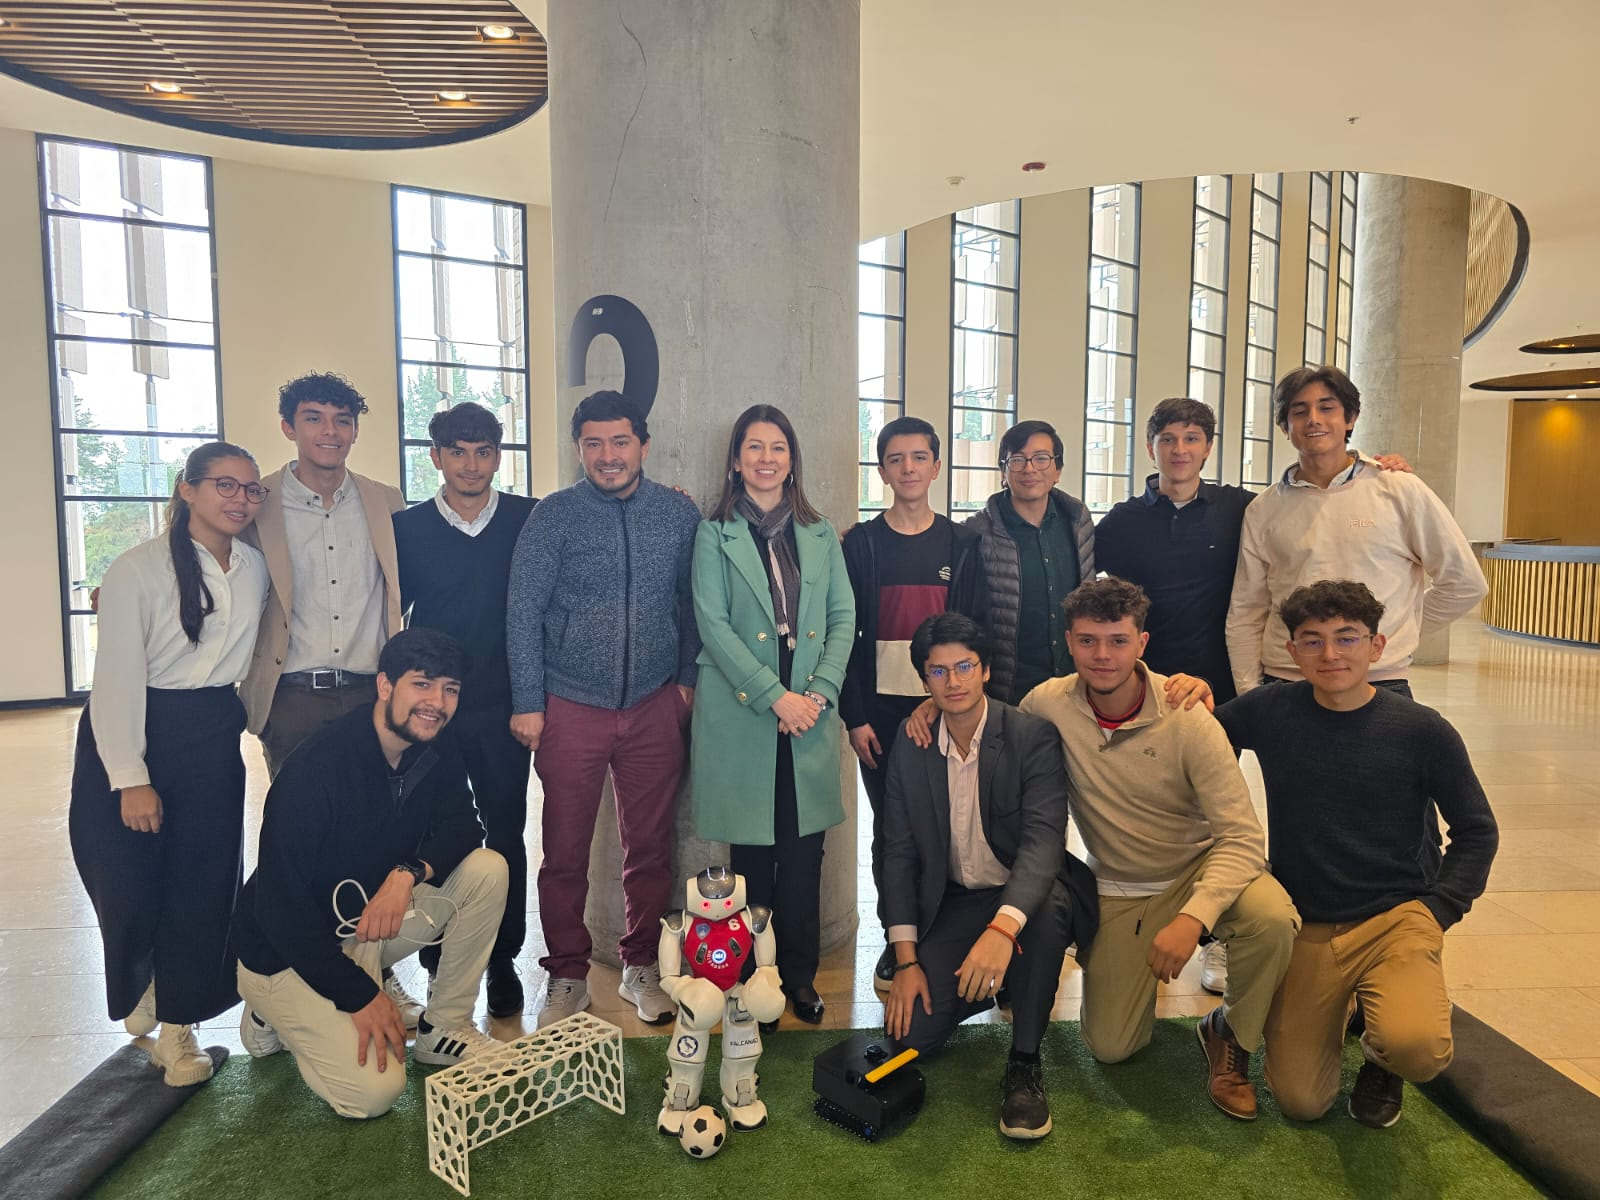
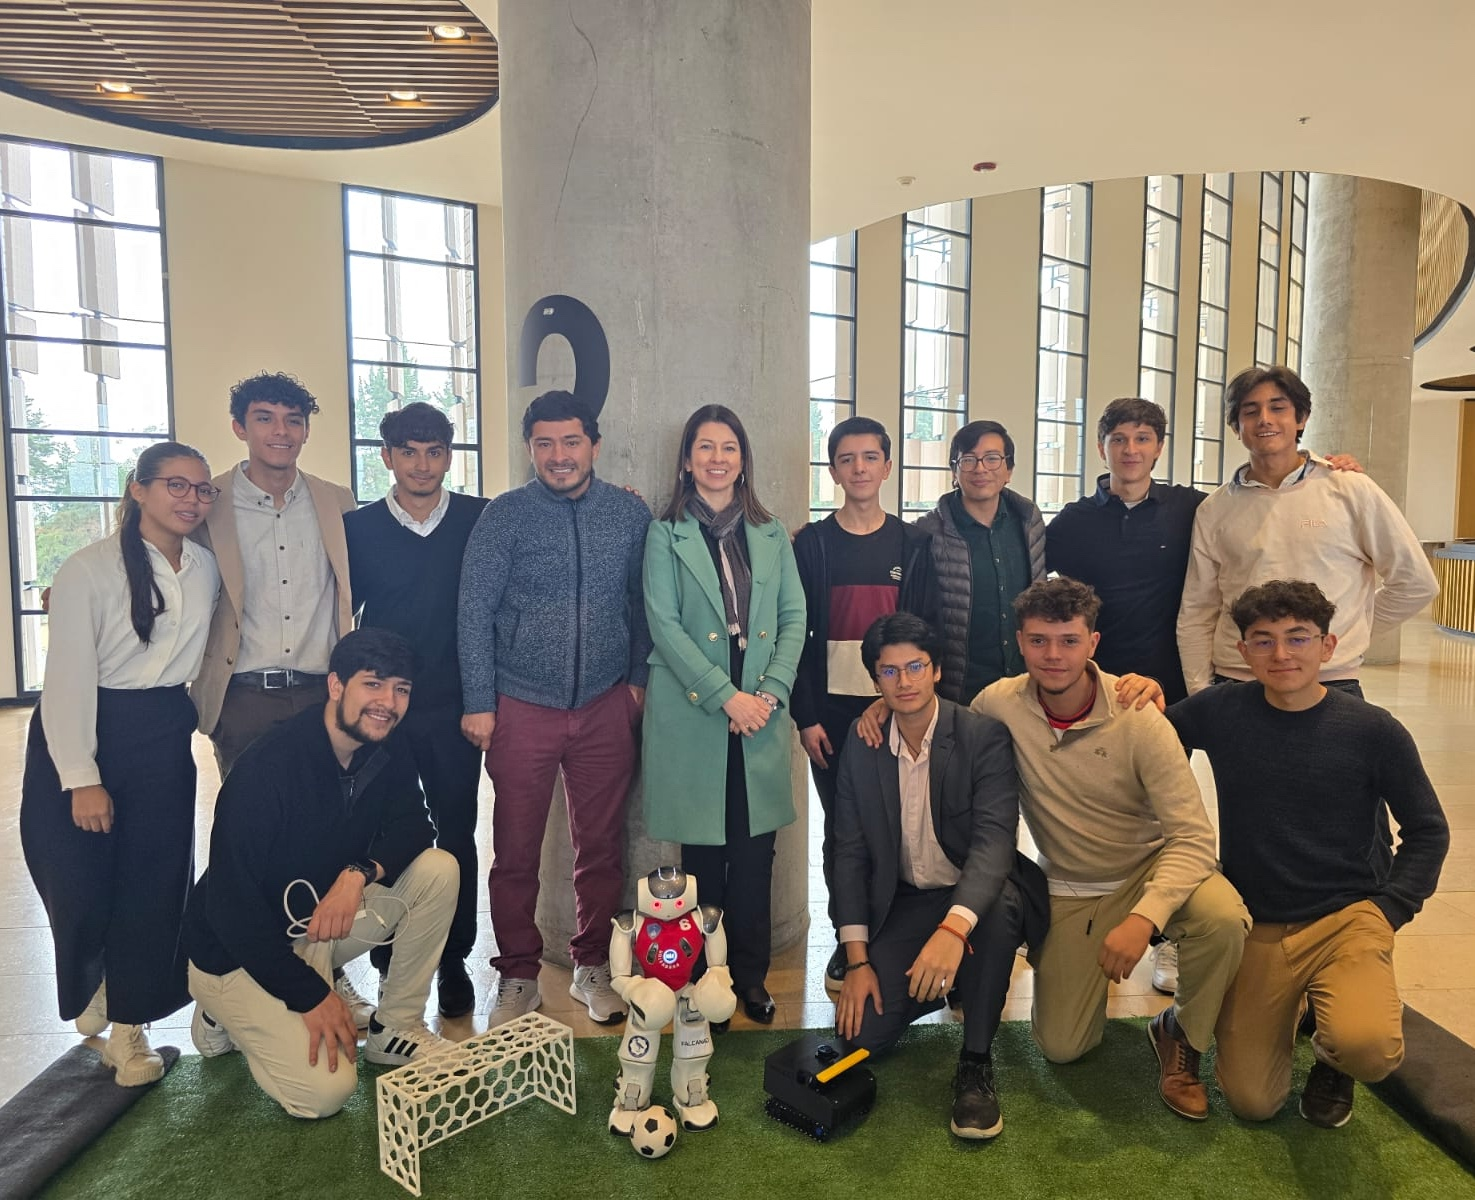
Team photos work in progress

diff --git a/team.html b/team.html
@@ -33,91 +33,139 @@
             <section id="team-general">
                 <img src="images/team.jpeg" alt="Team">
                 <p>Behind every breakthrough, a member of our crew is involved. The team is not only focused on deploying solutions to industrial constraints, but in applying their passion and knowldege to  different scopes of society. 
-                    Diversity is our strength: From mechanical engineers to data scientist, each member provides an insighftull perspective to innovation and desing of each solution. Led by faculty mentors, the combination between academic excellence and creativity creates a new mosaic in which problems are not seen as obstacles, but as steps to our ambitious projects of life</p>
+                    Diversity is our strength: From mechanical engineers to data scientist, each member provides an insighftull perspective to innovation and desing of each solution. Led by faculty mentors, the combination between academic excellence and creativity creates a new mosaic in which problems are not seen as obstacles, but as steps to our ambitious projects of life.</p>
             </section>
             <section id="team-personas">
-                <h2>Roles</h2>
+                <h2>Team Members</h2>
                 <div>
-                    <article>
-                        <h3>Jorge Alberto Castellanos</h3>
-                        <p class="rol">Faculty Advisor</p>
-                        <p class="carrera">Professor, Faculty of Engineering</p>
-                    </article>
-                    <article>
-                        <h3>Claudia Lorena Garzon</h3>
-                        <p class="rol">Faculty Advisor</p>
-                        <p class="carrera">Professor, Faculty of Engineering</p>
-                    </article>
-                    <article>
-                        <h3>Juan Sebastian Ulloa</h3>
-                        <p class="rol">Team Leader</p>
-                        <p class="carrera">Mechanical Engineering & Computer Engineering Student</p>
-                    </article>
-                    <article>
-                        <h3>Luis Alejandro Gonzalez</h3>
-                        <p class="rol">Team Member</p>
-                        <p class="carrera">Mechanical Engineering Student</p>
-                    </article>
-                    <article>
-                        <h3>Luis Mario Ramirez</h3>
-                        <p class="rol">Team Member</p>
-                        <p class="carrera">Computer Engineering Student</p>
-                    </article>
-                    <article>
-                        <h3>Laura Maria Franco</h3>
-                        <p class="rol">Team Member</p>
-                        <p class="carrera">Mechanical Engineering & Computer Engineering Student</p>
-                    </article>
-                    <article>
-                        <h3>Rafael Andres Salcedo</h3>
-                        <p class="rol">Team Member</p>
-                        <p class="carrera">Computer Engineering Student</p>
-                    </article>
-                    <article>
-                        <h3>Josaed Felipe Anaya</h3>
-                        <p class="rol">Team Member</p>
-                        <p class="carrera">Mechanical Engineering Student</p>
-                    </article>
-                    <article>
-                        <h3>Juan Diego Villalobos</h3>
-                        <p class="rol">Team Member</p>
-                        <p class="carrera">Design and Innovation Engineering & Mechanical Engineering Student</p>
-                    </article>
-                    <article>
-                        <h3>Andres Felipe Azcona</h3>
-                        <p class="rol">Team Member</p>
-                        <p class="carrera">Computer Engineering Student</p>
-                    </article>
-                    <article>
-                        <h3>Benjamin Lloveras</h3>
-                        <p class="rol">Team Member</p>
-                        <p class="carrera">Mechanical Engineering Student</p>
-                    </article>
-                    <article>
-                        <h3>Thalia Herrera</h3>
-                        <p class="rol">Team Member</p>
-                        <p class="carrera">Design and Innovation Engineering & Mechanical Engineering Student</p>
-                    </article>
-                    <article>
-                        <h3>Bruno Elias Perez</h3>
-                        <p class="rol">Team Member</p>
-                        <p class="carrera">Computer Engineering Student</p>
-                    </article>
-                    <article>
-                        <h3>Bryam Steven Diaz</h3>
-                        <p class="rol">Team Member</p>
-                        <p class="carrera">Computer Engineering Student</p>
-                    </article>
-                    <article>
-                        <h3>Diego Eduardo Escalante</h3>
-                        <p class="rol">Team Member</p>
-                        <p class="carrera">Computer Engineering Student</p>
-                    </article>
-                    <article>
-                        <h3>Gabriel Jose Torres</h3>
-                        <p class="rol">Team Member</p>
-                        <p class="carrera">Mechanical Engineering Student</p>
-                    </article>
+                    <a href="https://www.linkedin.com/in/jorge-castellanos-2528bb75/">
+                        <article>
+                            <img src="images/team.jpeg">
+                            <h3>Jorge Alberto Castellanos</h3>
+                            <p class="rol">Faculty Advisor</p>
+                            <p class="carrera">Professor, Faculty of Engineering</p>
+                        </article>
+                    </a>
+                    <a href="">
+                        <article>
+                            <img src="images/team.jpeg">
+                            <h3>Claudia Lorena Garzon</h3>
+                            <p class="rol">Faculty Advisor</p>
+                            <p class="carrera">Professor, Faculty of Engineering</p>
+                        </article>
+                    </a>
+                    <a href="">
+                        <article>
+                            <img src="images/team.jpeg">
+                            <h3>Juan Sebastian Ulloa</h3>
+                            <p class="rol">Team Leader</p>
+                            <p class="carrera">Mechanical Engineering & Computer Engineering Student</p>
+                        </article>
+                    </a>
+                    <a href="">
+                        <article>
+                            <img src="images/team.jpeg">
+                            <h3>Luis Alejandro Gonzalez</h3>
+                            <p class="rol">Team Member</p>
+                            <p class="carrera">Mechanical Engineering Student</p>
+                        </article>
+                    </a>
+                    <a href="">
+                        <article>
+                            <img src="images/team.jpeg">
+                            <h3>Luis Mario Ramirez</h3>
+                            <p class="rol">Team Member</p>
+                            <p class="carrera">Computer Engineering Student</p>
+                        </article>
+                    </a>
+                    <a href="">
+                        <article>
+                            <img src="images/team.jpeg">
+                            <h3>Laura Maria Franco</h3>
+                            <p class="rol">Team Member</p>
+                            <p class="carrera">Mechanical Engineering & Computer Engineering Student</p>
+                        </article>
+                    </a>
+                    <a href="">
+                        <article>
+                            <img src="images/team.jpeg">
+                            <h3>Rafael Andres Salcedo</h3>
+                            <p class="rol">Team Member</p>
+                            <p class="carrera">Computer Engineering Student</p>
+                        </article>
+                    </a>
+                    <a href="">
+                        <article>
+                            <img src="images/team.jpeg">
+                            <h3>Josaed Felipe Anaya</h3>
+                            <p class="rol">Team Member</p>
+                            <p class="carrera">Mechanical Engineering Student</p>
+                        </article>
+                    </a>
+                    <a href="">
+                        <article>
+                            <img src="images/team.jpeg">
+                            <h3>Juan Diego Villalobos</h3>
+                            <p class="rol">Team Member</p>
+                            <p class="carrera">Design and Innovation Engineering & Mechanical Engineering Student</p>
+                        </article>
+                    </a>
+                    <a href="">
+                        <article>
+                            <img src="images/team.jpeg">
+                            <h3>Andres Felipe Azcona</h3>
+                            <p class="rol">Team Member</p>
+                            <p class="carrera">Computer Engineering Student</p>
+                        </article>
+                    </a>
+                    <a href="">
+                        <article>
+                            <img src="images/team.jpeg">
+                            <h3>Benjamin Lloveras</h3>
+                            <p class="rol">Team Member</p>
+                            <p class="carrera">Mechanical Engineering Student</p>
+                        </article>
+                    </a>
+                    <a href="">
+                        <article>
+                            <img src="images/team.jpeg">
+                            <h3>Thalia Herrera</h3>
+                            <p class="rol">Team Member</p>
+                            <p class="carrera">Design and Innovation Engineering & Mechanical Engineering Student</p>
+                        </article>
+                    </a>
+                    <a href="">
+                        <article>
+                            <img src="images/team.jpeg">
+                            <h3>Bruno Elias Perez</h3>
+                            <p class="rol">Team Member</p>
+                            <p class="carrera">Computer Engineering Student</p>
+                        </article>
+                    </a>
+                    <a href="">
+                        <article>
+                            <img src="images/team.jpeg">
+                            <h3>Bryam Steven Diaz</h3>
+                            <p class="rol">Team Member</p>
+                            <p class="carrera">Computer Engineering Student</p>
+                        </article>
+                    </a>
+                    <a href="">
+                        <article>
+                            <img src="images/team.jpeg">
+                            <h3>Diego Eduardo Escalante</h3>
+                            <p class="rol">Team Member</p>
+                            <p class="carrera">Computer Engineering Student</p>
+                        </article>
+                    </a>
+                    <a href="">
+                        <article>
+                            <img src="images/team.jpeg">
+                            <h3>Gabriel Jose Torres</h3>
+                            <p class="rol">Team Member</p>
+                            <p class="carrera">Mechanical Engineering Student</p>
+                        </article>
+                    </a>
                 </div>
             </section>
         </main>

diff --git a/style.css b/style.css
@@ -642,8 +642,8 @@ nav a:hover {
 }
 
 #team-general img {
-  width: 70%;
-  max-width: 570px;
+  width: 60%;
+  max-width: 500px;
   border-radius: 20px;
   background-color: whitesmoke;
 }
@@ -672,7 +672,15 @@ nav a:hover {
 
 /* Tarjetas */
 
+#team-personas a {
+  text-decoration: none;
+  height: 80%;
+}
+
 #team-personas article {
+  height: 100%;
+  display: flex;
+  flex-direction: column;
   background-color: whitesmoke;
   padding: 30px 25px;
   border-radius: 18px;
@@ -720,7 +728,7 @@ nav a:hover {
 
 /* ---------------- Responsive ---------------- */
 
-@media (max-width: 900px) {
+@media (max-width: 1180px) {
   #team-general {
     flex-direction: column;
     text-align: center;
